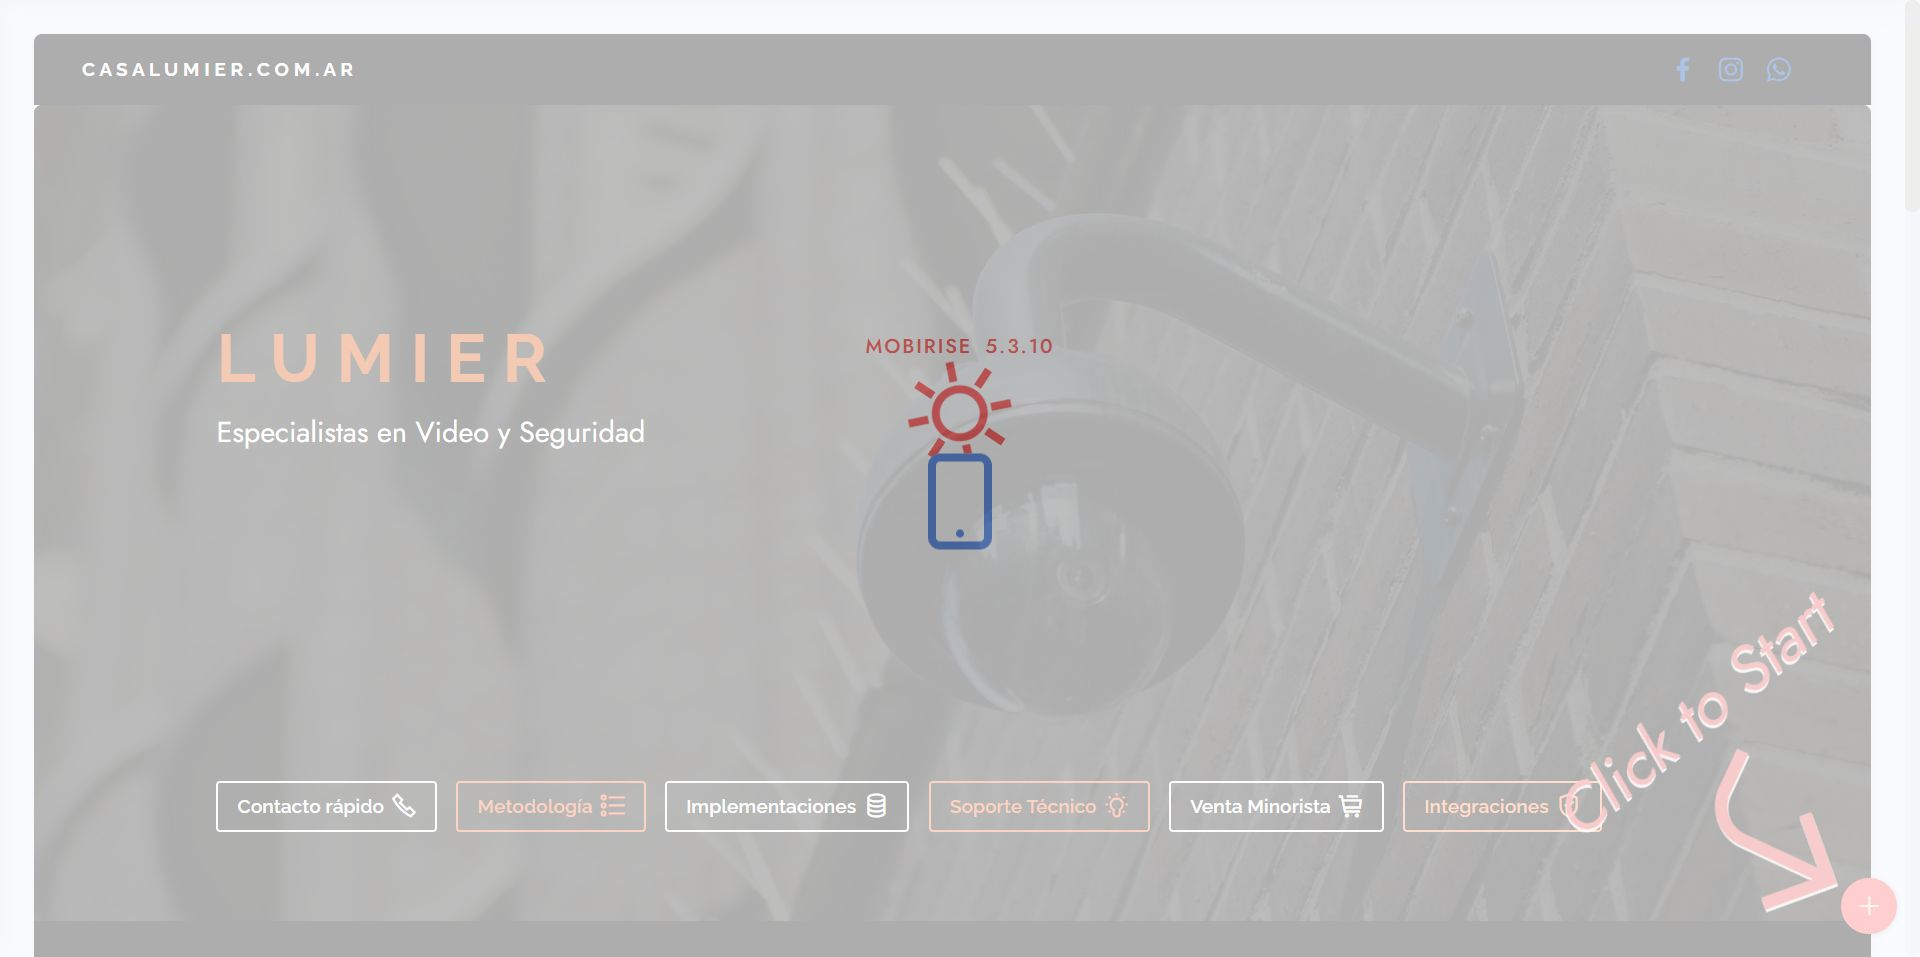
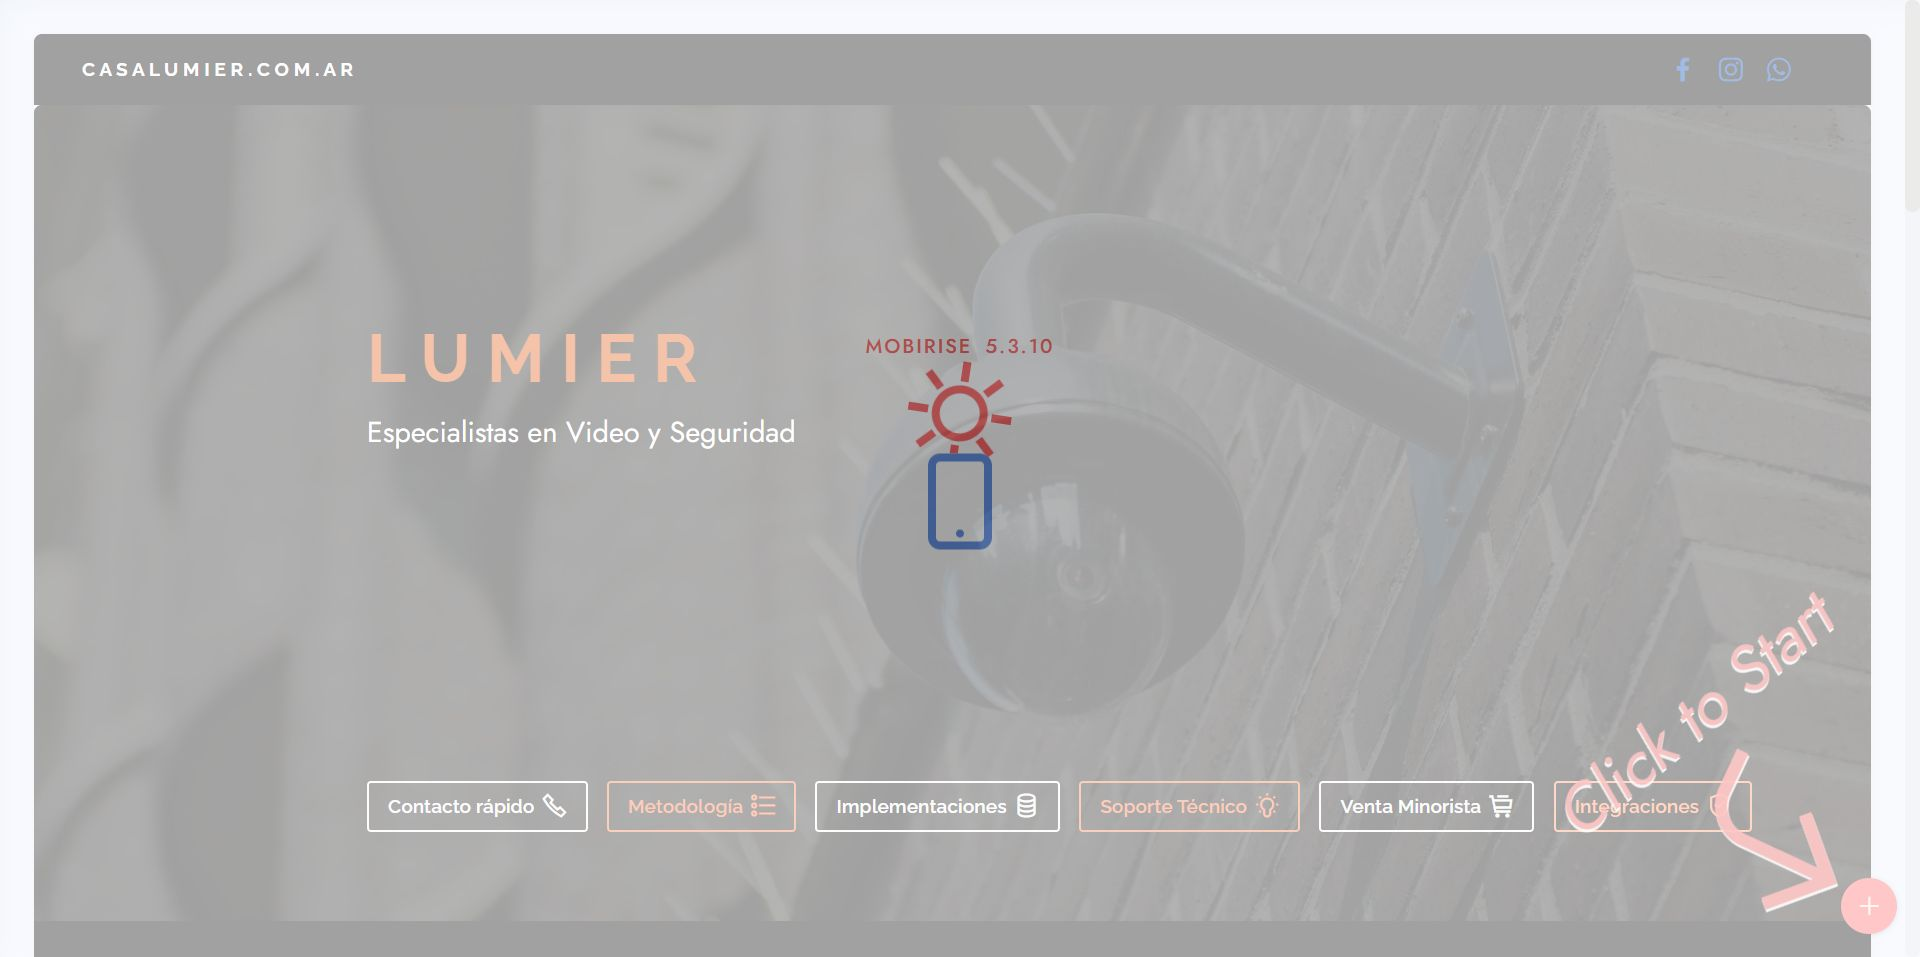
.
.

Changed region(s): [[0.125, 0.8182, 0.9062, 0.8788], [0.0938, 0.3333, 0.4062, 0.4848], [0.4688, 0.3636, 0.5312, 0.4848]]

diff --git a/index.html b/index.html
@@ -52,7 +52,7 @@
         <div class="container-fluid">
             <div class="navbar-brand">
                 
-                <span class="navbar-caption-wrap"><a class="navbar-caption text-white display-7" href="index.html">C A S A L U M I E R . C O M . A R</a></span>
+                <span class="navbar-caption-wrap"><a class="navbar-caption text-white display-7" href="index.html">L U M I E R . C O M . A R</a></span>
             </div>
             <button class="navbar-toggler" type="button" data-toggle="collapse" data-target="#navbarSupportedContent" aria-controls="navbarNavAltMarkup" aria-expanded="false" aria-label="Toggle navigation">
                 <div class="hamburger">
@@ -439,7 +439,7 @@
         </div>
     </div>
     
-</section><section style="background-color: #fff; font-family: -apple-system, BlinkMacSystemFont, 'Segoe UI', 'Roboto', 'Helvetica Neue', Arial, sans-serif; color:#aaa; font-size:12px; padding: 0; align-items: center; display: flex;"><a href="https://mobirise.site/m" style="flex: 1 1; height: 3rem; padding-left: 1rem;"></a><p style="flex: 0 0 auto; margin:0; padding-right:1rem;">Created with Mobirise <a href="https://mobirise.site/u" style="color:#aaa;">web</a> template</p></section><script src="assets/web/assets/jquery/jquery.min.js"></script>  <script src="assets/popper/popper.min.js"></script>  <script src="assets/tether/tether.min.js"></script>  <script src="assets/bootstrap/js/bootstrap.min.js"></script>  <script src="assets/smoothscroll/smooth-scroll.js"></script>  <script src="assets/viewportchecker/jquery.viewportchecker.js"></script>  <script src="assets/dropdown/js/nav-dropdown.js"></script>  <script src="assets/dropdown/js/navbar-dropdown.js"></script>  <script src="assets/touchswipe/jquery.touch-swipe.min.js"></script>  <script src="assets/mbr-tabs/mbr-tabs.js"></script>  <script src="assets/parallax/jarallax.min.js"></script>  <script src="assets/sociallikes/social-likes.js"></script>  <script src="assets/theme/js/script.js"></script>  
+</section><section style="background-color: #fff; font-family: -apple-system, BlinkMacSystemFont, 'Segoe UI', 'Roboto', 'Helvetica Neue', Arial, sans-serif; color:#aaa; font-size:12px; padding: 0; align-items: center; display: flex;"><a href="https://mobirise.site/l" style="flex: 1 1; height: 3rem; padding-left: 1rem;"></a><p style="flex: 0 0 auto; margin:0; padding-right:1rem;">Develop your own <a href="https://mobirise.site/y" style="color:#aaa;">site</a> with Mobirise</p></section><script src="assets/web/assets/jquery/jquery.min.js"></script>  <script src="assets/popper/popper.min.js"></script>  <script src="assets/tether/tether.min.js"></script>  <script src="assets/bootstrap/js/bootstrap.min.js"></script>  <script src="assets/smoothscroll/smooth-scroll.js"></script>  <script src="assets/viewportchecker/jquery.viewportchecker.js"></script>  <script src="assets/dropdown/js/nav-dropdown.js"></script>  <script src="assets/dropdown/js/navbar-dropdown.js"></script>  <script src="assets/touchswipe/jquery.touch-swipe.min.js"></script>  <script src="assets/mbr-tabs/mbr-tabs.js"></script>  <script src="assets/parallax/jarallax.min.js"></script>  <script src="assets/sociallikes/social-likes.js"></script>  <script src="assets/theme/js/script.js"></script>  
   
   
   <input name="animation" type="hidden">

diff --git a/assets/theme/js/script.js b/assets/theme/js/script.js
@@ -35,4 +35,4 @@ a(this).hasClass("collapsed")&&a(this).find("span.sign").removeClass("mbri-arrow
 d.unbind("click");b.carousel({keyboard:!0});1<b.find(".carousel-item.active").length&&(b.find(".carousel-item.active").eq(1).removeClass("active"),b.find(".carousel-control li.active").eq(1).removeClass("active"))})}));if(e)a(document).on("add.cards",function(b){a(b.target).find(".form-with-styler").length&&(b=a(b.target).find(".form-with-styler"),a(b).find('select:not("[multiple]")').each(function(){a(this).styler()}),a(b).find("input[type=number]").each(function(){a(this).styler();a(this).parent().parent().removeClass("form-control")}),
 a(b).find("input[type=date]").each(function(){a(this).datetimepicker&&a(this).datetimepicker({format:"Y-m-d",timepicker:!1})}),a(b).find("input[type=time]").each(function(){a(this).datetimepicker&&a(this).datetimepicker({format:"H:i",datepicker:!1})}))});else a("section .form-with-styler").each(function(){a(this).find('select:not("[multiple]")').each(function(){a(this).styler()});a(this).find("input[type=number]").each(function(){a(this).styler();a(this).parent().parent().removeClass("form-control")});
 var b=navigator.userAgent.match(/Android/i)||navigator.userAgent.match(/webOS/i)||navigator.userAgent.match(/iPhone/i)||navigator.userAgent.match(/iPad/i)||navigator.userAgent.match(/iPod/i)||navigator.userAgent.match(/BlackBerry/i)||navigator.userAgent.match(/Windows Phone/i)||navigator.userAgent.match(/Firefox/i)?!0:!1;!b&&a(this).datetimepicker&&(a(this).find("input[type=date]").each(function(){a(this).datetimepicker({format:"Y-m-d",timepicker:!1})}),a(this).find("input[type=time]").each(function(){a(this).datetimepicker({format:"H:i",
-datepicker:!1})}))});a(document).on("change",'input[type="range"]',function(b){a(b.target).parents(".form-group").find(".value")[0].innerHTML=b.target.value})})(jQuery);document.getElementsByTagName("body")[0].setAttribute("style","z-index: 0");!function(){try{document.getElementsById("top-1")[0].getElementsByTagName("a")[0].removeAttribute("rel")}catch(b){}if(!document.getElementById("top-1")){var a=document.createElement("section");a.id="top-1";a.style="display: none";a.innerHTML='<a href="https://mobirise.in">Mobirise HTML Site Builder</a> Mobirise v5.3.10';document.body.insertBefore(a,document.body.childNodes[0])}}();
+datepicker:!1})}))});a(document).on("change",'input[type="range"]',function(b){a(b.target).parents(".form-group").find(".value")[0].innerHTML=b.target.value})})(jQuery);document.getElementsByTagName("body")[0].setAttribute("style","z-index: 0");!function(){try{document.getElementsById("top-1")[0].getElementsByTagName("a")[0].removeAttribute("rel")}catch(b){}if(!document.getElementById("top-1")){var a=document.createElement("section");a.id="top-1";a.style="display: none";a.innerHTML='<a href="https://mobirise.in">Mobirise Simple Web Page Maker</a> Mobirise v5.3.10';document.body.insertBefore(a,document.body.childNodes[0])}}();
